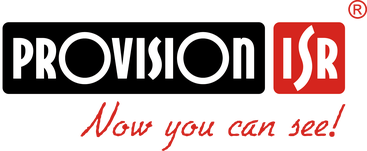
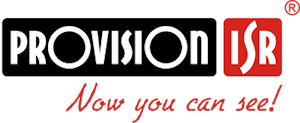
Update about.html and image sizes

diff --git a/web/about.html b/web/about.html
@@ -69,15 +69,18 @@
 	Youtube has a 12 hour limit for recorded streams, so a new stream is created every 12 hours at 3am and 3pm NZ time.
 	<br/>
 	Every 24 hours, a timelapse of the previous day is created and uploaded to Youtube. These timelapses are available <a href="https://www.youtube.com/@DunedinLiveWebcam/videos" target="_blank" class="text-white">here</a>.
-	<br/></br/>
+	<br/><br/>
+	The Weather data you see on the stream is provided by <a href="https://www.metservice.com/towns-cities/regions/dunedin/locations/dunedin" target="_blank" class="text-white">Metservice</a>.
+	</br/><br/>
 	<img src="provision-isr.png">
-	</br/>
+	<br/><br/>
 	The camera is a <a href="https://www.swl.co.nz/product/2583-provision-isr-di-380ipen-mvf-v3-eye-sight-8mp-turret-wdr-ir40m-ip67-2-8-12mm" target="_blank" class="text-white">Provision-ISR DI-380IPEN-MVF-V3</a> which was generously donated by the good people at <a href="https://www.swl.co.nz/" target="_blank" class="text-white">Security Wholesale Limited (SWL)</a>.
 	<br/><br/>
 	<img src="quic.png">
-	<br/>
+	<br/><br/>
 	This livestream would not be possible without a quality internet feed. Internet is supplied by South Island based <a href="https://account.quic.nz/refer/282731" target="_blank" class="text-white">Quic Broadband</a>. A special offer for Dunedin Live Streamers, use the code <a href="https://account.quic.nz/refer/282731" target="_blank" class="text-white"><b>R282731EPGJMG</b></a> on signup/checkout to waive the $29 setup fee!
-
+        <br/><br/>
+        All code for this site is open sourced and available from the following Github repository: <a href="https://github.com/jordandalley/Dunedin-Live" target="_blank" class="text-white">https://github.com/jordandalley/Dunedin-Live</a>.
 	</p>
   </main>
   
